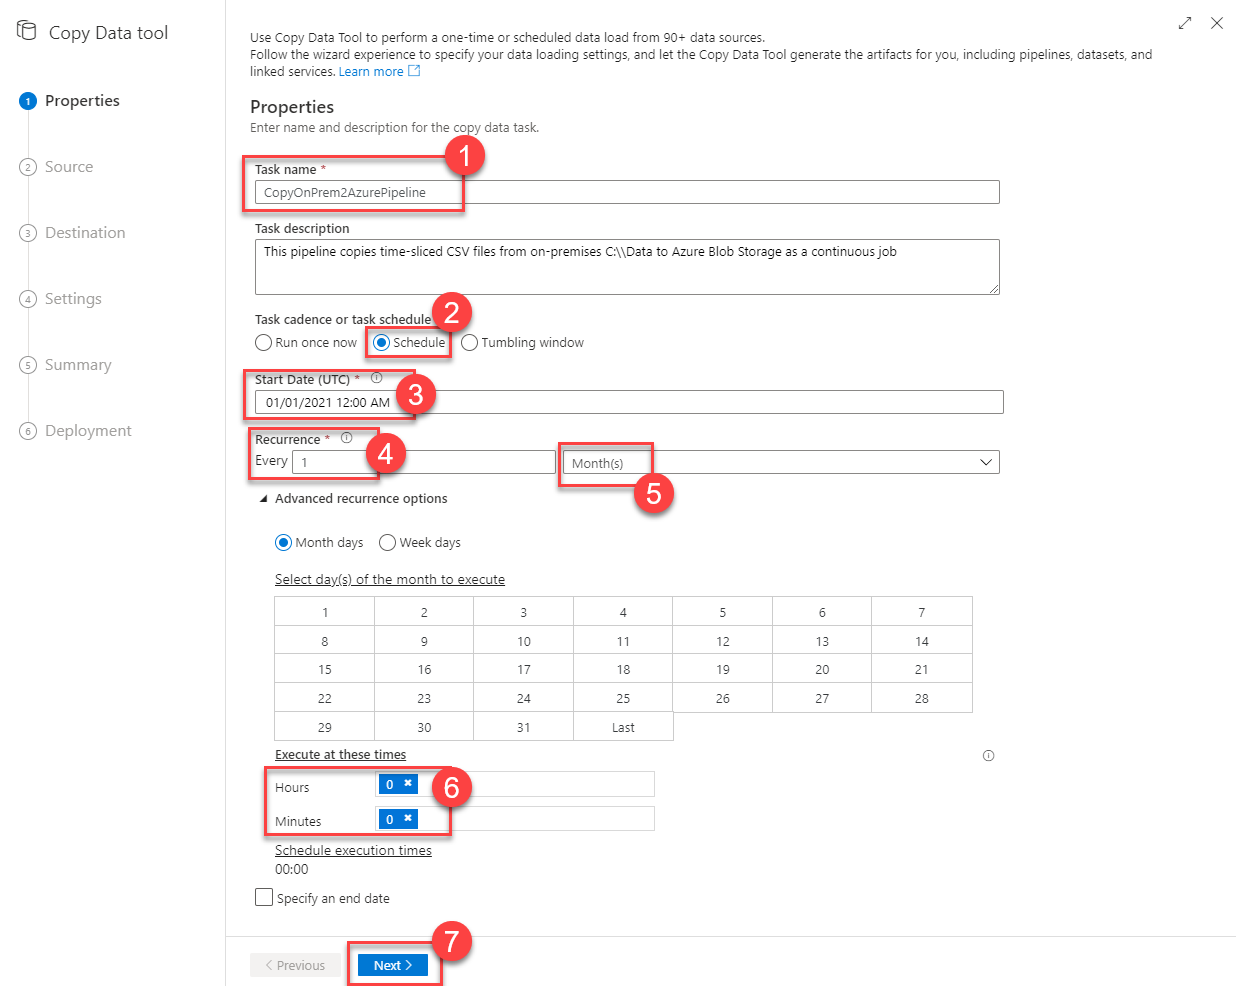
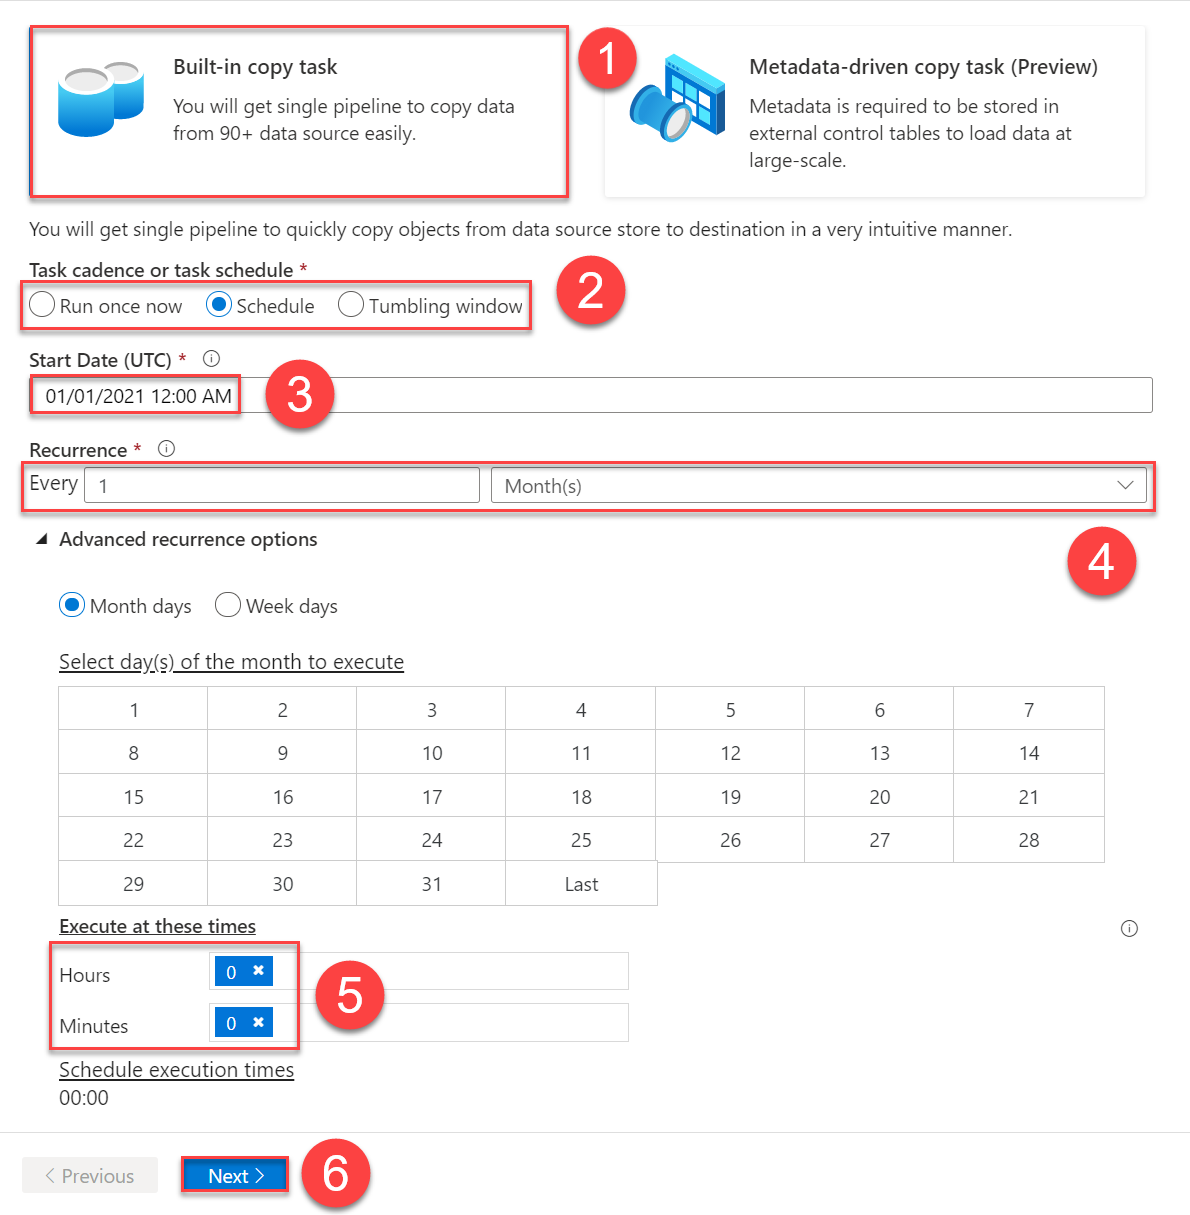
Data Factory image updates.

diff --git a/Hands-on lab/HOL step-by-step - Big data and visualization.md b/Hands-on lab/HOL step-by-step - Big data and visualization.md
@@ -323,9 +323,9 @@ In this exercise, you will create a baseline environment for Azure Data Factory 
 
    ![Azure Portal Resource Listing page is shown. Azure Data Factory resource is highlighted.](media/select-azure-datafactory.png 'Azure Data Factory')
 
-4. On the Data Factory Overview screen, select **Author & Monitor**.
+4. On the Data Factory Overview screen, select **Open Azure Data Factory Studio**.
 
-   ![In the Azure Data Factory resource screen, Overview is selected from the left menu. The Author & Monitor tile is selected.](media/adf-author-monitor.png 'Author & Monitor')
+   ![In the Azure Data Factory resource screen, Overview is selected from the left menu. The Open Azure Data Factory Studio tile is selected.](media/adf-author-monitor.png 'Open Azure Data Factory Studio')
 
 5. A new page will open in another tab or new window. Within the Azure Data Factory site, select **Manage** on the menu.
 
@@ -367,7 +367,7 @@ In this exercise, you will create a baseline environment for Azure Data Factory 
 
 15. Depending on your version of the Integration Runtime, you will be asked to specify a backup file. Select **Skip** and **OK**.
 
-   ![The Integration Runtime Configuration Manager requests a backup credentials. Configuring backup settings is unncessary for this lab.](./media/skip_ir_backup.png 'Skipping Integration Runtime backup settings')
+   ![The Integration Runtime Configuration Manager requests a backup credentials. Configuring backup settings is unncessary for this lab.](media/skip_ir_backup.png 'Skipping Integration Runtime backup settings')
 
 16. You will then get a screen with a confirmation message. Select the **Launch Configuration Manager** button to view the connection details.
 
@@ -391,27 +391,21 @@ In this exercise, you will create an Azure Data Factory pipeline to copy data (.
 
 ### Task 1: Create copy pipeline using the Copy Data Wizard
 
-1. Within the Azure Data Factory overview page, select **Copy Data**.
+1. Within the Azure Data Factory overview page, select **Ingest**.
 
-   ![The Copy Data item is from the Azure Data Factory overview page.](media/adf-copy-data-link.png 'Copy Data')
+   ![The Ingest item is from the Azure Data Factory overview page.](media/adf-copy-data-link.png 'Ingest')
 
-2. In the Copy Data properties, enter the following:
-
-   - **Task name (1)**: `CopyOnPrem2AzurePipeline`
-
-   - **Task description**: (Optional) `This pipeline copies time-sliced CSV files from on-premises C:\\Data to Azure Blob Storage as a continuous job.`
-
-   - **Task cadence or Task schedule (2)**: Select **Schedule**
-
-   - **Start date (UTC)**: Enter **01/01/2021 12:00 AM**
-
-   - **Recurrence**: Every `1` **(4)**, and select **Month(s)** **(5)**
-
-   - Under the **Advanced recurrence options**, make sure you have a value of `0` in the textboxes for **Hours (UTC)** and **Minutes (UTC)** **(6)**, otherwise it will fail later during Publishing.
+2. Enter the **Properties** page
+  
+   - Select **Built-in copy task** (1)
+   - Select **Schedule** below **Task cadence or task schedule** (2)
+   - Set the **Start Date (UTC)** to **01/01/2021 12:00 AM** (3) 
+   - Set the **Recurrence** to **Every 1 month** (4)
+   - Below **Advanced recurrence options**, set **Hours** and **Minutes** to 0 (5)
 
    ![The Properties form for the copy data task is shown populated with the values outlined above.](media/adf-copy-data-properties.png 'Properties dialog box')
 
-3. Select **Next (7)**.
+3. Select **Next (6)**.
 
 4. On the Source data store screen, select **+ Create new connection**.
 
@@ -441,9 +435,9 @@ In this exercise, you will create an Azure Data Factory pipeline to copy data (.
 
    ![On the Source data store page, OnPremServer is selected, and the Next button is highlighted.](media/adf-copy-data-source-next.png 'Select Next')
 
-9. On the **Choose the input file or folder** screen, select **Browse (1)**, then select the **FlightsAndWeather (2)** folder. Next, select **Load all files** under file loading behavior, check **Recursively**, then select **Next (3)**.
+9. On the **Source data store** screen, select **Browse (1)**, then select the **FlightsAndWeather (2)** folder. Next, select **Load all files** under file loading behavior, check **Recursively**, then select **Next**.
 
-   ![In the Choose the input file or folder screen, the Browse button, and Next button are highlighted. The File or Folder is set to FlightsAndWeather, the File loading behavior is set to Load all files, and the checkbox for Recursively is checked.](media/adf-copy-data-source-choose-input.png 'Choose the input file or folder page')
+   ![In the Source data store screen, the Browse button is highlighted. The File or Folder is set to FlightsAndWeather, the File loading behavior is set to Load all files, and the checkbox for Recursively is checked.](media/adf-copy-data-source-choose-input.png 'Choose the input file or folder page')
 
 10. On the File format settings page, select the following options:
 
@@ -451,9 +445,7 @@ In this exercise, you will create an Azure Data Factory pipeline to copy data (.
 
     - **Column delimiter**: **Comma (,)**
 
-    - **Row delimiter**: **Auto detect (\r, \n, or \r\n)**
-
-    - **Skip line count**: `0`
+    - **Row delimiter**: **Default (\r, \n, or \r\n)**
 
     - **First row as header (2)**: **Checked**
 
@@ -461,7 +453,7 @@ In this exercise, you will create an Azure Data Factory pipeline to copy data (.
 
 11. Select **Next (3)**.
 
-12. On the Destination data store screen, select **+ Create new connection**.
+12. On the Destination data store screen, select **+ New connection**.
 
 13. Select **Azure Blob Storage (1)** within the New Linked Service blade, then select **Continue (2)**.
 
@@ -481,9 +473,7 @@ In this exercise, you will create an Azure Data Factory pipeline to copy data (.
 
     ![On the New linked service (Azure Blob storage) page, the fields are set to the previously defined values.](media/adf-copy-data-blob-storage-linked.png 'New Linked Service Blob Storage')
 
-15. On the Destination data store page, select **Next**.
-
-16. From the **Choose the output file or folder** tab, enter the following:
+15. On the Destination data store page, configure the Blob Storage output path.
 
     - **Folder path (1)**: `sparkcontainer/FlightsAndWeather/{Year}/{Month}/`
 
@@ -497,25 +487,25 @@ In this exercise, you will create an Azure Data Factory pipeline to copy data (.
 
     - Select **Next (5)**.
 
-      ![On the Choose the output file or folder form, fields are set to the previously defined values.](media/adf-copy-data-output-file-folder.png 'Choose the output file or folder page')
+      ![On the Destination data store form, fields are set to the previously defined values.](media/adf-copy-data-output-file-folder.png 'Destination data store page')
 
-17. On the File format settings screen, select the **Text format (1)** file format, and check the **Add header to file (2)** checkbox, then select **Next (3)**. If present, leave **Max rows per file** and **File name prefix** at their defaults.
+16. On the File format settings screen, select the **Text format (1)** file format, and check the **Add header to file (2)** checkbox, then select **Next (3)**. If present, leave **Max rows per file** and **File name prefix** at their defaults.
 
     ![On the File format settings page, the File Format is set to Text format, and the check box for Add header to file is selected. The Next button is selected.](media/adf-copy-data-file-format-settings.png 'File format settings page')
 
-18. On the **Settings** screen, select **Skip incompatible rows (1)** under Fault tolerance, and uncheck **Enable logging (2)**. If present, keep **Data consistency verification** unchecked. Expand Advanced Settings and set Degree of copy parallelism to `10` **(3)**, then select **Next (4)**.
-
+17. On the **Settings** screen, select **Skip incompatible rows (1)** under Fault tolerance, and uncheck **Enable logging (2)**. If present, keep **Data consistency verification** unchecked. Expand Advanced Settings and set Degree of copy parallelism to `10` **(3)**, then select **Next (4)**.
+   
     ![In the Fault tolerance drop-down Skip incompatible rows is selected, and the Degree of copy parallelism is set to 10. The Next button is selected.](media/adf-copy-data-settings.png 'Settings page')
 
-19. Review settings on the **Summary** tab, but **DO NOT choose Next**.
+18. Review settings on the **Summary** tab, but **DO NOT choose Next**.
 
     ![The Summary page is displayed.](media/adf-copy-data-summary.png 'Summary page')
 
-20. Scroll down on the summary page until you see the **Copy Settings (1)** section. Select **Edit (2)** next to **Copy Settings**.
+19. Scroll down on the summary page until you see the **Copy Settings (1)** section. Select **Edit (2)** next to **Copy Settings**.
 
     ![The Edit link is selected next to the Copy settings header.](media/adf-copy-data-review-page.png 'Summary page')
 
-21. Change the following Copy setting:
+20. Change the following Copy setting:
 
     - **Retry (1)**: `3`
 
@@ -523,9 +513,9 @@ In this exercise, you will create an Azure Data Factory pipeline to copy data (.
 
       ![In the Copy settings form, the Retry textbox is set to 3, and the Save link is highlighted.](media/adf-copy-data-copy-settings.png 'Copy settings')
 
-22. After saving the Copy settings, select **Next (3)** on the Summary tab.
+21. After saving the Copy settings, select **Next (3)** on the Summary tab.
 
-23. On the **Deployment** screen, you will see a message that the deployment is in progress, and after a minute or two, the deployment is completed. Select **Edit Pipeline** to close out of the wizard and navigate to the pipeline editing blade.
+22. On the **Deployment** screen, you will see a message that the deployment is in progress, and after a minute or two, the deployment is completed. Select **Edit Pipeline** to close out of the wizard and navigate to the pipeline editing blade.
 
     ![The Deployment screen indicates the deployment is complete.](media/adf-copy-data-deployment.png 'Deployment page')
 
